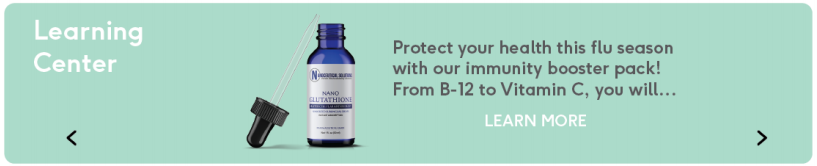
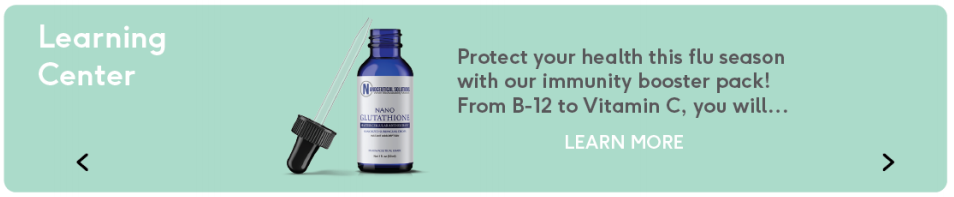
ready

diff --git a/public/mockups/customer-sitemap.html b/public/mockups/customer-sitemap.html
@@ -69,7 +69,7 @@
                         </div>
                     </form>
                     <div class="btn-group">
-                        <a class="icon first"> <img src="../assets/fonts/shopping-cart.svg" alt="Logo"
+                        <a class="icon first"> <img style="fill: white;" src="../assets/fonts/shopping-cart.svg" alt="Logo"
                                 class="logo-img"></a>
                         <a class="icon"><img src="../assets/fonts/user.svg" alt="Logo" class="logo-img"></img></a>
                         <a class="icon"><img src="../assets/fonts/alarm.svg" alt="Logo" class="logo-img"></img></a>

diff --git a/public/css/app.css b/public/css/app.css
@@ -26,9 +26,15 @@
 
 .card-bloc {
     border-color: white;
+    margin-bottom: 0px;
 }
 
-.col-md-9 .img-responsive {
+.svg {
+    fill: white;
+}
+
+.col-md-9 {
+    margin: -25px 0px;
     padding: 0.5rem 4.5rem;
 }
 
